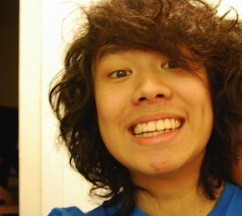
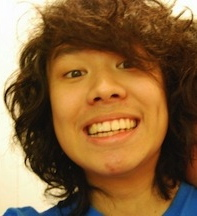
please

diff --git a/unit1_projects/stylesheets/dbc2.css b/unit1_projects/stylesheets/dbc2.css
@@ -28,7 +28,9 @@ div {
 }
 
 #photo{
-	margin-right: 10px;
+	position: absolute;
+	right: 10px;
+	bottom: 10px;
 }
 #header {
 	height:50px;
@@ -39,10 +41,11 @@ div {
 
 #center {
 	height:250px;
-	width:1190px;
+	width:1200px;
 	background-color:#E0E4CC;
 	float: right;
 	margin-bottom:5px;
+	position: relative;
 }
 
 #left {
